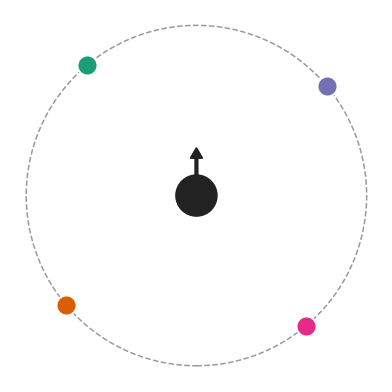
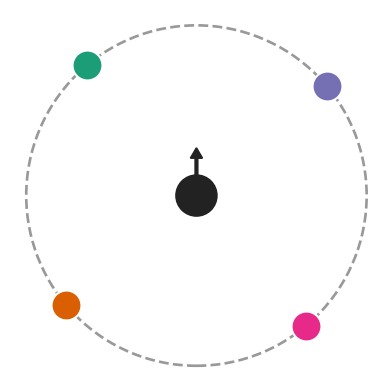
v4

diff --git a/index.html b/index.html
@@ -71,14 +71,14 @@
       max-width: var(--section-width);
       margin: 0 auto 28px;
       color: var(--muted);
-      font-size: 20px;
+      font-size: 22px;
       line-height: 1.45;
       text-align: left;
     }
 
     .headphones-icon {
-      width: 1.25em;
-      height: 1.25em;
+      width: 1.35em;
+      height: 1.35em;
       margin-left: 4px;
       vertical-align: -0.22em;
     }
@@ -113,7 +113,7 @@
       max-width: var(--section-width);
       margin: -4px auto 16px;
       color: var(--muted);
-      font-size: 18px;
+      font-size: 22px;
       line-height: 1.45;
     }
 
@@ -371,12 +371,6 @@
       font-size: 12px;
     }
 
-    .footer-note {
-      margin-top: 20px;
-      color: var(--muted);
-      font-size: 12px;
-    }
-
     @media (max-width: 980px) {
       .subtitle {
         font-size: 18px;
@@ -425,7 +419,6 @@
         <div class="track-title">
           Track 1
           <div class="track-meta">
-            <!-- TODO: fill in the actual song title -->
             AM Contra - Heart Peripheral
           </div>
         </div>
@@ -434,22 +427,17 @@
           <div class="cell">
             <div class="label">mixture</div>
             <div class="media audio-media">
-              <!-- TODO: replace with the actual mixture audio path -->
-              <!-- Example: assets/static/track1_mixture.wav -->
               <audio controls src="assets/static/AM Contra - Heart Peripheral/mix.wav"></audio>
             </div>
             <div class="label">position</div>
             <div class="position-row">
               <div class="static-source-legend">
-                <!-- TODO: update these angles to match track 1 positions -->
-                <span class="chip"><span class="dot source-dot-drums"></span>drums: 185°</span>
-                <span class="chip"><span class="dot source-dot-bass"></span>bass: 95°</span>
-                <span class="chip"><span class="dot source-dot-other"></span>other: 275°</span>
-                <span class="chip"><span class="dot source-dot-vocals"></span>vocals: 5°</span>
+                <span class="chip"><span class="dot source-dot-drums"></span>drums: 0°</span>
+                <span class="chip"><span class="dot source-dot-bass"></span>bass: 90°</span>
+                <span class="chip"><span class="dot source-dot-other"></span>other: 180°</span>
+                <span class="chip"><span class="dot source-dot-vocals"></span>vocals: 270°</span>
               </div>
               <div class="media positions">
-                <!-- TODO: replace with the actual static position image path -->
-                <!-- Example: assets/static/track1_positions.png -->
                 <img src="assets/static/AM Contra - Heart Peripheral/position.png" alt="Static source positions for track 1" />
               </div>
             </div>
@@ -460,8 +448,6 @@
               <div class="stack-item">
                 <div class="label">SP</div>
                 <div class="media audio-media">
-                  <!-- TODO: replace with the actual SP binaural audio path -->
-                  <!-- Example: assets/static/track1_sp.wav -->
                   <audio controls src="assets/static/AM Contra - Heart Peripheral/mix_bin_panning.wav"></audio>
                 </div>
               </div>
@@ -469,8 +455,6 @@
               <div class="stack-item">
                 <div class="label">MCSR-T</div>
                 <div class="media audio-media">
-                  <!-- TODO: replace with the actual MCSR-T binaural audio path -->
-                  <!-- Example: assets/static/track1_mcsr_t.wav -->
                   <audio controls src="assets/static/AM Contra - Heart Peripheral/mix_bin_MCSR.wav"></audio>
                 </div>
               </div>
@@ -478,8 +462,6 @@
               <div class="stack-item">
                 <div class="label">reference</div>
                 <div class="media audio-media">
-                  <!-- TODO: replace with the actual reference binaural audio path -->
-                  <!-- Example: assets/static/track1_reference.wav -->
                   <audio controls src="assets/static/AM Contra - Heart Peripheral/ref.wav"></audio>
                 </div>
               </div>
@@ -492,7 +474,6 @@
         <div class="track-title">
           Track 2
           <div class="track-meta">
-            <!-- TODO: fill in the actual song title -->
             Cristina Vane - So Easy
           </div>
         </div>
@@ -501,22 +482,17 @@
           <div class="cell">
             <div class="label">mixture</div>
             <div class="media audio-media">
-              <!-- TODO: replace with the actual mixture audio path -->
-              <!-- Example: assets/static/track2_mixture.wav -->
               <audio controls src="assets/static/Cristina Vane - So Easy/mix.wav"></audio>
             </div>
             <div class="label">position</div>
             <div class="position-row">
               <div class="static-source-legend">
-                <!-- TODO: update these angles to match track 2 positions -->
                 <span class="chip"><span class="dot source-dot-drums"></span>drums: 230°</span>
                 <span class="chip"><span class="dot source-dot-bass"></span>bass: 320°</span>
                 <span class="chip"><span class="dot source-dot-other"></span>other: 50°</span>
                 <span class="chip"><span class="dot source-dot-vocals"></span>vocals: 140°</span>
               </div>
               <div class="media positions">
-                <!-- TODO: replace with the actual static position image path -->
-                <!-- Example: assets/static/track2_positions.png -->
                 <img src="assets/static/Cristina Vane - So Easy/position.png" alt="Static source positions for track 2" />
               </div>
             </div>
@@ -527,8 +503,6 @@
               <div class="stack-item">
                 <div class="label">SP</div>
                 <div class="media audio-media">
-                  <!-- TODO: replace with the actual SP binaural audio path -->
-                  <!-- Example: assets/static/track2_sp.wav -->
                   <audio controls src="assets/static/Cristina Vane - So Easy/mix_bin_panning.wav"></audio>
                 </div>
               </div>
@@ -536,8 +510,6 @@
               <div class="stack-item">
                 <div class="label">MCSR-T</div>
                 <div class="media audio-media">
-                  <!-- TODO: replace with the actual MCSR-T binaural audio path -->
-                  <!-- Example: assets/static/track2_mcsr_t.wav -->
                   <audio controls src="assets/static/Cristina Vane - So Easy/mix_bin_MCSR.wav"></audio>
                 </div>
               </div>
@@ -545,8 +517,6 @@
               <div class="stack-item">
                 <div class="label">reference</div>
                 <div class="media audio-media">
-                  <!-- TODO: replace with the actual reference binaural audio path -->
-                  <!-- Example: assets/static/track2_reference.wav -->
                   <audio controls src="assets/static/Cristina Vane - So Easy/ref.wav"></audio>
                 </div>
               </div>
@@ -566,7 +536,6 @@
         <div class="track-title">
           Track 1
           <div class="track-meta">
-            <!-- TODO: fill in the actual song title -->
             (Signe Jakobsen - What Have You Done To Me)
           </div>
         </div>
@@ -575,13 +544,10 @@
           <div class="cell">
             <div class="label">mixture</div>
             <div class="media audio-media">
-              <!-- TODO:  replace with the actual mixture audio path -->
-              <!-- Example: assets/dynamic/track1_mixture.wav -->
               <audio controls src="assets/dynamic/mix.wav"></audio>
             </div>
             <div class="label">position</div>
             <div class="static-source-legend">
-              <!-- TODO: update these angles to match the dynamic demo positions -->
               <span class="chip"><span class="dot source-dot-drums"></span>drums: 0°</span>
               <span class="chip"><span class="dot source-dot-bass"></span>bass: 90°</span>
               <span class="chip"><span class="dot source-dot-other"></span>other: 220°</span>
@@ -592,8 +558,6 @@
           <div class="cell">
             <div class="label">SP</div>
             <div class="media">
-              <!-- TODO: replace with the actual SP MP4 path -->
-              <!-- Example: assets/dynamic/track1_sp.mp4 -->
               <video controls playsinline src="assets/dynamic/SP_position_demo.mp4"></video>
             </div>
           </div>
@@ -601,8 +565,6 @@
           <div class="cell">
             <div class="label">MCSR-T</div>
             <div class="media">
-              <!-- TODO: replace with the actual MCSR-T MP4 path -->
-              <!-- Example: assets/dynamic/track1_mcsr_t.mp4 -->
               <video controls playsinline src="assets/dynamic/mcsr_position_demo.mp4"></video>
             </div>
           </div>
@@ -611,9 +573,6 @@
       </div>
     </section>
 
-    <div class="footer-note">
-      <!-- TODO: add demo link / short note if needed -->
-    </div>
   </div>
 </body>
 </html>

diff --git a/render_position_image.py b/render_position_image.py
@@ -12,6 +12,10 @@ Example:
   python3 render_position_image.py \
     --positions "230,320,50,140" \
     --output "assets/static/Cristina Vane - So Easy/position.png"
+
+  python3 render_position_image.py \
+    --positions "0,90,180,270" \
+    --output "assets/static/AM Contra - Heart Peripheral/position.png"
 """
 
 from __future__ import annotations
@@ -61,7 +65,7 @@ def build_figure(positions: Iterable[float], output_path: Path) -> None:
         (0, 0),
         1.0,
         fill=False,
-        linewidth=0.9,
+        linewidth=1.6,
         linestyle="--",
         color="#555555",
         alpha=0.6,
@@ -85,7 +89,7 @@ def build_figure(positions: Iterable[float], output_path: Path) -> None:
         ax.scatter(
             [x],
             [y],
-            s=145,
+            s=320,
             color=SOURCE_COLORS.get(name, "#444444"),
             edgecolors="white",
             linewidths=1.2,